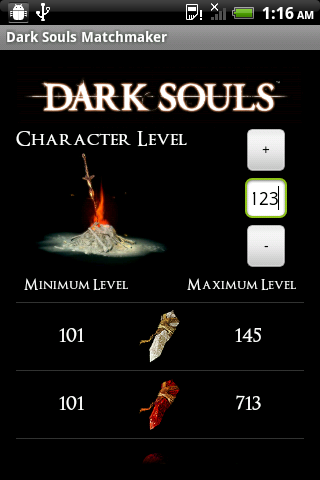
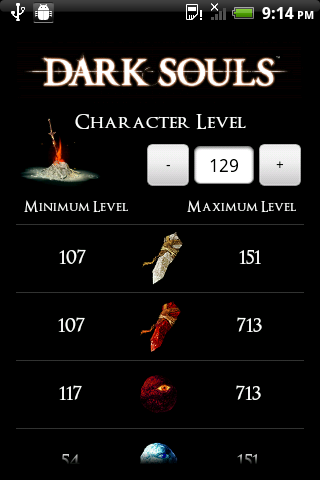
New screenshot for 2.x devices

diff --git a/README.md b/README.md
@@ -3,4 +3,4 @@ Dark Souls Matchmaker
 
 Dark Souls online matchmaking calculator for Android, used to calculate level-ranges
 for items like the White Soap Stone and Red Eye Orb
-![Dark Souls Matchmaker Screenshot](https://raw.github.com/mdjarv/DarkSoulsMatchmaker/master/media/screenshot.png "Dark Souls Matchmaker Screenshot")
+![Dark Souls Matchmaker Screenshot](https://raw.github.com/mdjarv/DarkSoulsMatchmaker/master/media/screenshot_GalaxyNexus.png "Dark Souls Matchmaker Screenshot")
